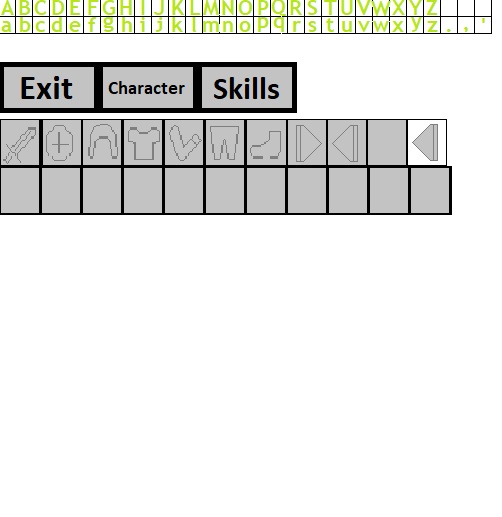
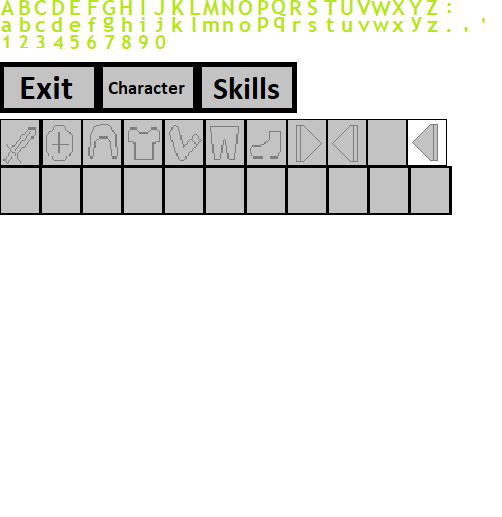
Text in Menu
Draw text for stats, Calculate Stats started, Display Stats shows stats in character menu
removed MENU_LAYER as it was no longer being used, have BUTTONS_LAYER for exit / character / spells

diff --git a/main.py b/main.py
@@ -100,6 +100,7 @@ class Game:
         #CREATE PLAYER AND ADD TO PARTY
         #self.party.append(Player(self, 10, 10))
         self.party.append(CharacterSheet(self, 10, 10))
+        self.party[self.top_character].calculate_stats()
         self.createTilemap(self.current_zone.id)
         
         #DIALOG
@@ -128,18 +129,19 @@ class Game:
         self.inventory_flag[PRIMARY] = True
         #self.inventory_flag[2] = True
 
-    def showDialog(self, dialog):
-        tempx = 1
+    def showDialog(self, xpos, ypos, dialog):
+        tempx = xpos
         #ERASE SHOWING TEXT
-        for sprite in self.text:
-            sprite.kill()
+        #for sprite in self.text:
+            #sprite.kill()
         
         #IF DIALOG IS OVER, KILL SPRITES
         if dialog == "kill":
             self.in_dialog = False
         else:
-            for x in dialog:
-                TextSprite(self, tempx, 1, x)
+            for n in dialog:
+                
+                TextSprite(self, tempx, ypos, n)
                 tempx += CHARACTER_SPACING #SPACING BETWEEN CHARACTERS
 
     def createTilemap(self, map):
@@ -214,7 +216,7 @@ class Game:
             self.enemies.empty()
             self.zonelines.empty()
 
-            print ("Length is ", self.menuboxes.__len__())
+            #print ("Length is ", self.menuboxes.__len__())
             for i, row in enumerate(map):
                 for j, column in enumerate(row):
                     StaticSprite(self, j, i, MAINMENUGROUNDX, MAINMENUGROUNDY, GROUND_LAYER)
@@ -222,11 +224,11 @@ class Game:
                         StaticSprite(self, j, i, MAINMENUWALLX, MAINMENUWALLY, BLOCK_LAYER)
                     ## THESE CLICKABLE SPRITES HAVE TO BE PUT INTO THE MAP IN A SPECIFIC ORDER FOR COLLISION
                     if column == "E":
-                        self.menuboxes[EXIT] = StaticSprite(self, j, i, EXITBUTTONX, EXITBUTTONY, TEXT_LAYER)
+                        self.menuboxes[EXIT] = StaticSprite(self, j, i, EXITBUTTONX, EXITBUTTONY, BUTTONS_LAYER)
                     if column == "G":
-                        self.menuboxes[CHARACTER] = StaticSprite(self, j, i, CHARACTERBUTTONX, CHARACTERBUTTONY, TEXT_LAYER)
+                        self.menuboxes[CHARACTER] = StaticSprite(self, j, i, CHARACTERBUTTONX, CHARACTERBUTTONY, BUTTONS_LAYER)
                     if column == "Q":
-                        self.menuboxes[SPELLS] = StaticSprite(self, j, i, SPELLSBUTTONX, SPELLSBUTTONY, TEXT_LAYER)
+                        self.menuboxes[SPELLS] = StaticSprite(self, j, i, SPELLSBUTTONX, SPELLSBUTTONY, BUTTONS_LAYER)
 
         elif map == MERCHANTMENU:
             for i, row in enumerate(map):
@@ -257,11 +259,11 @@ class Game:
                         StaticSprite(self, j, i, MAINMENUWALLX, MAINMENUWALLY, BLOCK_LAYER)
                     ## THESE CLICKABLE SPRITES HAVE TO BE PUT INTO THE MAP EACH TIME BC CLEARING SPRITES
                     if column == "E":
-                        self.menuboxes[EXIT] = StaticSprite(self, j, i, EXITBUTTONX, EXITBUTTONY, MENU_LAYER)
+                        self.menuboxes[EXIT] = StaticSprite(self, j, i, EXITBUTTONX, EXITBUTTONY, BUTTONS_LAYER)
                     if column == "G":
-                        self.menuboxes[CHARACTER] = StaticSprite(self, j, i, CHARACTERBUTTONX, CHARACTERBUTTONY, MENU_LAYER)
+                        self.menuboxes[CHARACTER] = StaticSprite(self, j, i, CHARACTERBUTTONX, CHARACTERBUTTONY, BUTTONS_LAYER)
                     if column == "Q":
-                        self.menuboxes[SPELLS] = StaticSprite(self, j, i, SPELLSBUTTONX, SPELLSBUTTONY, MENU_LAYER)
+                        self.menuboxes[SPELLS] = StaticSprite(self, j, i, SPELLSBUTTONX, SPELLSBUTTONY, BUTTONS_LAYER)
                     if column == "H":
                         self.menuboxes[HEAD] = StaticSprite(self, j, i, HEADSLOTX, HEADSLOTY, GEAR_LAYER)
                         #SHOWING ITEM IN THIS GEAR SLOT - SEEMS LIKE I'M REDRAWING TOO MUCH MAYBE ?
@@ -319,6 +321,9 @@ class Game:
                     self.party[self.top_character].inventory[tempn] = Item(self, tempn - 10, 16, tempid)
                     #tempn - 10 is positioning on screen
                 tempn +=1
+            
+            self.party[self.top_character].display_stats()
+            #self.showDialog(5, 5, "Strength")
 
             #for i in range(self.party[self.top_character].inventory.__len__()):
             #    tempid = self.party[self.top_character].inventory[i].id
@@ -328,7 +333,6 @@ class Game:
             #self.draw()
             #self.update()
             
-
 #Roll a Natural 20 on the dice.
 #Roll the dice again with all the exact same bonuses that were applied to the Natural 20 roll.
 #If the attack roll from Step 2 is a hit, roll your damage twice and add the result of both rolls together.
@@ -630,11 +634,12 @@ class Game:
                         if pygame.sprite.collide_rect_ratio(1.1)(self.party[self.top_character], self.dialognpc[tempint]):
                             print("Hit NPC")
                             self.in_dialog = True #we are now in a dialog
+                            
                             #set temp info to pass along to if indialog
                             self.tempindex = 0
                             self.templength = self.dialognpc[tempint].dialoglength
                             self.tempdialog = self.dialognpc[tempint].dialog
-                            self.showDialog(self.tempdialog[self.tempindex])
+                            self.showDialog(1, 1, self.tempdialog[self.tempindex])
                             #IF THIS DIALOG IS A MERCHANT, ALSO DISPLAY WINDOW WITH ITEMS FOR SALE
                             if self.dialognpc[tempint].id == MERCHANT:
                                 self.inmerchant = True
@@ -660,6 +665,8 @@ class Game:
                         tempint += 1  
 
                 elif event.key == pygame.K_e and self.in_dialog:
+                    for sprite in self.text:
+                        sprite.kill()
                     #when a player is in a dialog, continue on or exit
                     self.tempindex += 1 #increase to next index
                     print("Is", self.templength, ">", self.tempindex)
@@ -667,7 +674,7 @@ class Game:
                     if self.templength > self.tempindex:
                         print ("Next dialog")
                         #call the next line, and do so until over
-                        self.showDialog(self.tempdialog[self.tempindex])
+                        self.showDialog(1, 1, self.tempdialog[self.tempindex])
                 
                     else:
                         print("End of dialog.")
@@ -676,7 +683,7 @@ class Game:
                         self.in_dialog = False
                         self.inmerchant = False
                         #input -1 into showDialog to end dialog mode
-                        self.showDialog("kill")
+                        self.showDialog(0, 0, "kill")
                    
     def update(self):
         #if there's something on the cursor, update to the mouse position

diff --git a/sprites.py b/sprites.py
@@ -47,6 +47,7 @@ class Item(pygame.sprite.Sprite):
         self.atk = 0
         self.ac = 0
         self.slot = 0 #which slot it can be placed into
+        self.str = self.dex = self.vit = self.int = self.spr = 0
 
         #VALUE = COIN TO PURCHASE
         self.value = 0
@@ -67,6 +68,7 @@ class Item(pygame.sprite.Sprite):
             self.equip = True #if equippable, if not put in inventory directly
             self.atk = 4 #attack die associated
             self.value = 5
+            self.str = 5
             self.slot = PRIMARY
             self.image = self.game.items_spritesheet.get_sprite(SWORDX, SWORDY, self.width, self.height)
         elif itemid == SHIRT:
@@ -496,10 +498,13 @@ class StaticSprite(pygame.sprite.Sprite):
             #STATIC GEAR LAYER IS MENU BACKGROUND FOR HEAD / CHEST / ARMS / ETC
             self.groups = self.game.all_sprites, self.game.item_sprites
             self.image = self.game.npc_textsheet.get_sprite(pixx, pixy, 40, 47)
-        elif layer == MENU_LAYER:
-            #100, 85 IS SIZE OF EXIT / CHARACTER BUTTONS
+        #elif layer == MENU_LAYER:
+            #self.groups = self.game.all_sprites, self.game.menu_sprites
+            #self.image = self.game.npc_textsheet.get_sprite(pixx, pixy, 10, 65)
+        elif layer == BUTTONS_LAYER:
+            #MENU / CHARACTER / SPELLS BUTTON
             self.groups = self.game.all_sprites, self.game.menu_sprites
-            self.image = self.game.npc_textsheet.get_sprite(pixx, pixy, 100, 85)
+            self.image = self.game.npc_textsheet.get_sprite(pixx, pixy, 100, 46)
         elif layer == DIALOGNPC_LAYER: 
             self.groups = self.game.all_sprites, self.game.blocks#, self.game.dialognpc - can I use hasdialog flag??
             self.image = self.game.enemy_spritesheet.get_sprite(ENEMYX, ENEMYY, self.width, self.height)
@@ -519,6 +524,7 @@ class StaticSprite(pygame.sprite.Sprite):
 class TextSprite(pygame.sprite.Sprite):
     def __init__(self, game, x, y, char):
         self.game = game
+        self._layer = TEXT_LAYER
         #DISPLAY GROUPS
         self.groups = self.game.all_sprites, self.game.text
         
@@ -632,11 +638,33 @@ class TextSprite(pygame.sprite.Sprite):
         elif char == 'z':
             self.image = self.game.npc_textsheet.get_sprite(425, 16, TILESIZE / 2, TILESIZE / 2)
         elif char == '.':
-            self.image = self.game.npc_textsheet.get_sprite(442, 32, TILESIZE / 2, TILESIZE / 2)
+            self.image = self.game.npc_textsheet.get_sprite(442, 16, TILESIZE / 2, TILESIZE / 2)
         elif char == ',':
-            self.image = self.game.npc_textsheet.get_sprite(459, 32, TILESIZE / 2, TILESIZE / 2)
-        else:
+            self.image = self.game.npc_textsheet.get_sprite(459, 16, TILESIZE / 2, TILESIZE / 2)
+        elif char == ':':
             self.image = self.game.npc_textsheet.get_sprite(442, 0, TILESIZE / 2, TILESIZE / 2)
+        elif char == '1':
+            self.image = self.game.npc_textsheet.get_sprite(0, 32, TILESIZE / 2, TILESIZE / 2)
+        elif char == '2':
+            self.image = self.game.npc_textsheet.get_sprite(17, 32, TILESIZE / 2, TILESIZE / 2)
+        elif char == '3':
+            self.image = self.game.npc_textsheet.get_sprite(33, 32, TILESIZE / 2, TILESIZE / 2)
+        elif char == '4':
+            self.image = self.game.npc_textsheet.get_sprite(50, 32, TILESIZE / 2, TILESIZE / 2)
+        elif char == '5':
+            self.image = self.game.npc_textsheet.get_sprite(67, 32, TILESIZE / 2, TILESIZE / 2)
+        elif char == '6':
+            self.image = self.game.npc_textsheet.get_sprite(85, 32, TILESIZE / 2, TILESIZE / 2)
+        elif char == '7':
+            self.image = self.game.npc_textsheet.get_sprite(101, 32, TILESIZE / 2, TILESIZE / 2)
+        elif char == '8':
+            self.image = self.game.npc_textsheet.get_sprite(119, 32, TILESIZE / 2, TILESIZE / 2)
+        elif char == '9':
+            self.image = self.game.npc_textsheet.get_sprite(136, 32, TILESIZE / 2, TILESIZE / 2)
+        elif char == '0':
+            self.image = self.game.npc_textsheet.get_sprite(152, 32, TILESIZE / 2, TILESIZE / 2)
+        else:
+            self.image = self.game.npc_textsheet.get_sprite(459, 0, TILESIZE / 2, TILESIZE / 2)
 
         pygame.sprite.Sprite.__init__(self, self.groups)
 

diff --git a/container.py b/container.py
@@ -12,6 +12,7 @@ class CharacterSheet(Player):
         
         #default starting stats
         self.lvl = 1
+        self.exp = 0
         #str governs attack damage, weight limit
         self.str = self.strmod = 0
         #vitality governs hit points, hit points regen & constitution saves
@@ -37,36 +38,55 @@ class CharacterSheet(Player):
             self.inventory.append(Item(self.game, 0, 0, BLANK))
             self.temp += 1
 
-        #self.temp = 1
-        #while self.temp < NUMOFGEARSLOTS:
-            #self.gear.append(Item(self.game, 0, 0, BLANK))
-            #self.temp += 1
-
-        #giving inventory to try to draw to screen
-        #self.inventory[INVBOXA] = Item(self.game, 0, 0, SWORD)
-        #self.inventory[INVBOXB] = Item(self.game, 0, 0, SHIRT)
-        #self.inventory[INVBOXC] = Item(self.game, 0, 0, POTION)
         #give a sword to pretend battle
         #self.gear[PRIMARY] = Item(self.game, 10, 10, SWORD)
         self.inventory[PRIMARY] = Item(self.game, 10, 10, SWORD)
         self.inventory[HEAD] = Item(self.game, 10, 10, SHIRT)
-        #self.gear[PRIMARY].move_layer(INIT_LAYER)
-        #self.gear[PRIMARY].id = SWORD
-        #self.gear[HEAD].id = SHIRT
-        #self.gear[HEAD] = Item(self.game, 10, 10, SHIRT)
-        #self.gear[HEAD].move_layer(INIT_LAYER)
-        #CLEAR THE SWORD DRAWN TO SCREEN
+
         ##  BUT THEN HOW DO I DRAW LATER, RE- ADD??
         for sprite in self.game.item_sprites:
             sprite.kill()
         
     #any time gear is equipped, unequipped, debuffs, buffs, etc
     def calculate_stats(self):
-        pass
+        self.str = self.inventory[HEAD].str + self.inventory[ARMS].str + self.inventory[CHEST].str + self.inventory[LEGS].str + self.inventory[FEET].str + self.inventory[PRIMARY].str + self.inventory[SECONDARY].str
+        self.strmod = self.str // 5 #str mod 5 for str modifier
+
+        self.vit = self.inventory[HEAD].vit + self.inventory[ARMS].vit + self.inventory[CHEST].vit + self.inventory[LEGS].vit + self.inventory[FEET].vit + self.inventory[PRIMARY].vit + self.inventory[SECONDARY].vit
+        self.vitmod = self.vit // 5 #str mod 5 for str modifier
+
+        self.dex = self.inventory[HEAD].dex + self.inventory[ARMS].dex + self.inventory[CHEST].dex + self.inventory[LEGS].dex + self.inventory[FEET].dex + self.inventory[PRIMARY].dex + self.inventory[SECONDARY].dex
+        self.dexmod = self.dex // 5 #str mod 5 for str modifier
+
+        self.int = self.inventory[HEAD].int + self.inventory[ARMS].int + self.inventory[CHEST].int + self.inventory[LEGS].int + self.inventory[FEET].int + self.inventory[PRIMARY].int + self.inventory[SECONDARY].int
+        self.intmod = self.int // 5 #str mod 5 for str modifier
+
+        self.spr = self.inventory[HEAD].spr + self.inventory[ARMS].spr + self.inventory[CHEST].spr + self.inventory[LEGS].spr + self.inventory[FEET].spr + self.inventory[PRIMARY].spr + self.inventory[SECONDARY].spr
+        self.sprmod = self.spr // 5 #str mod 5 for str modifier
+
+        self.hp = 10 + self.vitmod + (5 * self.lvl)
+        #calculate level
+        
     
     #use a skill or ability
     def skill_ability(self):
         pass
+
+    def display_stats(self):
+        self.game.showDialog(10, 2, "HP: ")
+        self.game.showDialog(12, 2, str(self.hp))
+        self.game.showDialog(10, 3, "Str: ")
+        self.game.showDialog(12, 3, str(self.str))
+        self.game.showDialog(10, 4, "Vit: ")
+        self.game.showDialog(12, 4, str(self.vit))
+        self.game.showDialog(10, 5, "Dex: ")
+        self.game.showDialog(12, 5, str(self.dex))
+        self.game.showDialog(10, 6, "Int: ")
+        self.game.showDialog(12, 6, str(self.int))
+        self.game.showDialog(10, 7, "Spr: ")
+        self.game.showDialog(12, 7, str(self.spr))
+        
+        
 
 class MobSheet(Enemy):
     def __init__(self, game, x, y):

diff --git a/config.py b/config.py
@@ -7,11 +7,12 @@ FPS = 60
 
 #UNIQUE SIZE FOR THE INVENTORY BAR UNTIL I CAN FIGURE OUT HOW TO WITH SPRITES
 
-DIALOGNPC_LAYER = 11
-TEXT_LAYER = 10
-GEAR_LAYER = 9
-INVBAR_LAYER = 8
-MENU_LAYER = 7
+DIALOGNPC_LAYER = 12
+TEXT_LAYER = 11
+GEAR_LAYER = 10
+INVBAR_LAYER = 9
+BUTTONS_LAYER = 8
+#MENU_LAYER = 7
 ZONE_LAYER = 6
 PLAYER_LAYER = 5
 NPC_LAYER = 4
@@ -32,7 +33,7 @@ PLAYERS = 2
 MOBS = 3
 
 TEXTWIDTH = 100
-TEXTHEIGHT = 85
+TEXTHEIGHT = 90
 
 ## DIALOG DEFINES ##
 CHARACTER_SPACING = 0.4
@@ -274,11 +275,11 @@ BLANKSLOTX = 0
 BLANKSLOTY = 166
 POINTERX = 411
 EXITBUTTONX = 0
-EXITBUTTONY = 32
-CHARACTERBUTTONX = 101
-CHARACTERBUTTONY = 32
+EXITBUTTONY = 64
+CHARACTERBUTTONX = 100
+CHARACTERBUTTONY = 64
 SPELLSBUTTONX = 199
-SPELLSBUTTONY = 32
+SPELLSBUTTONY = 64
 
 MAINMENU = [
 'AAAAAAAAAAAAAAAAAAAAAAAAA',
